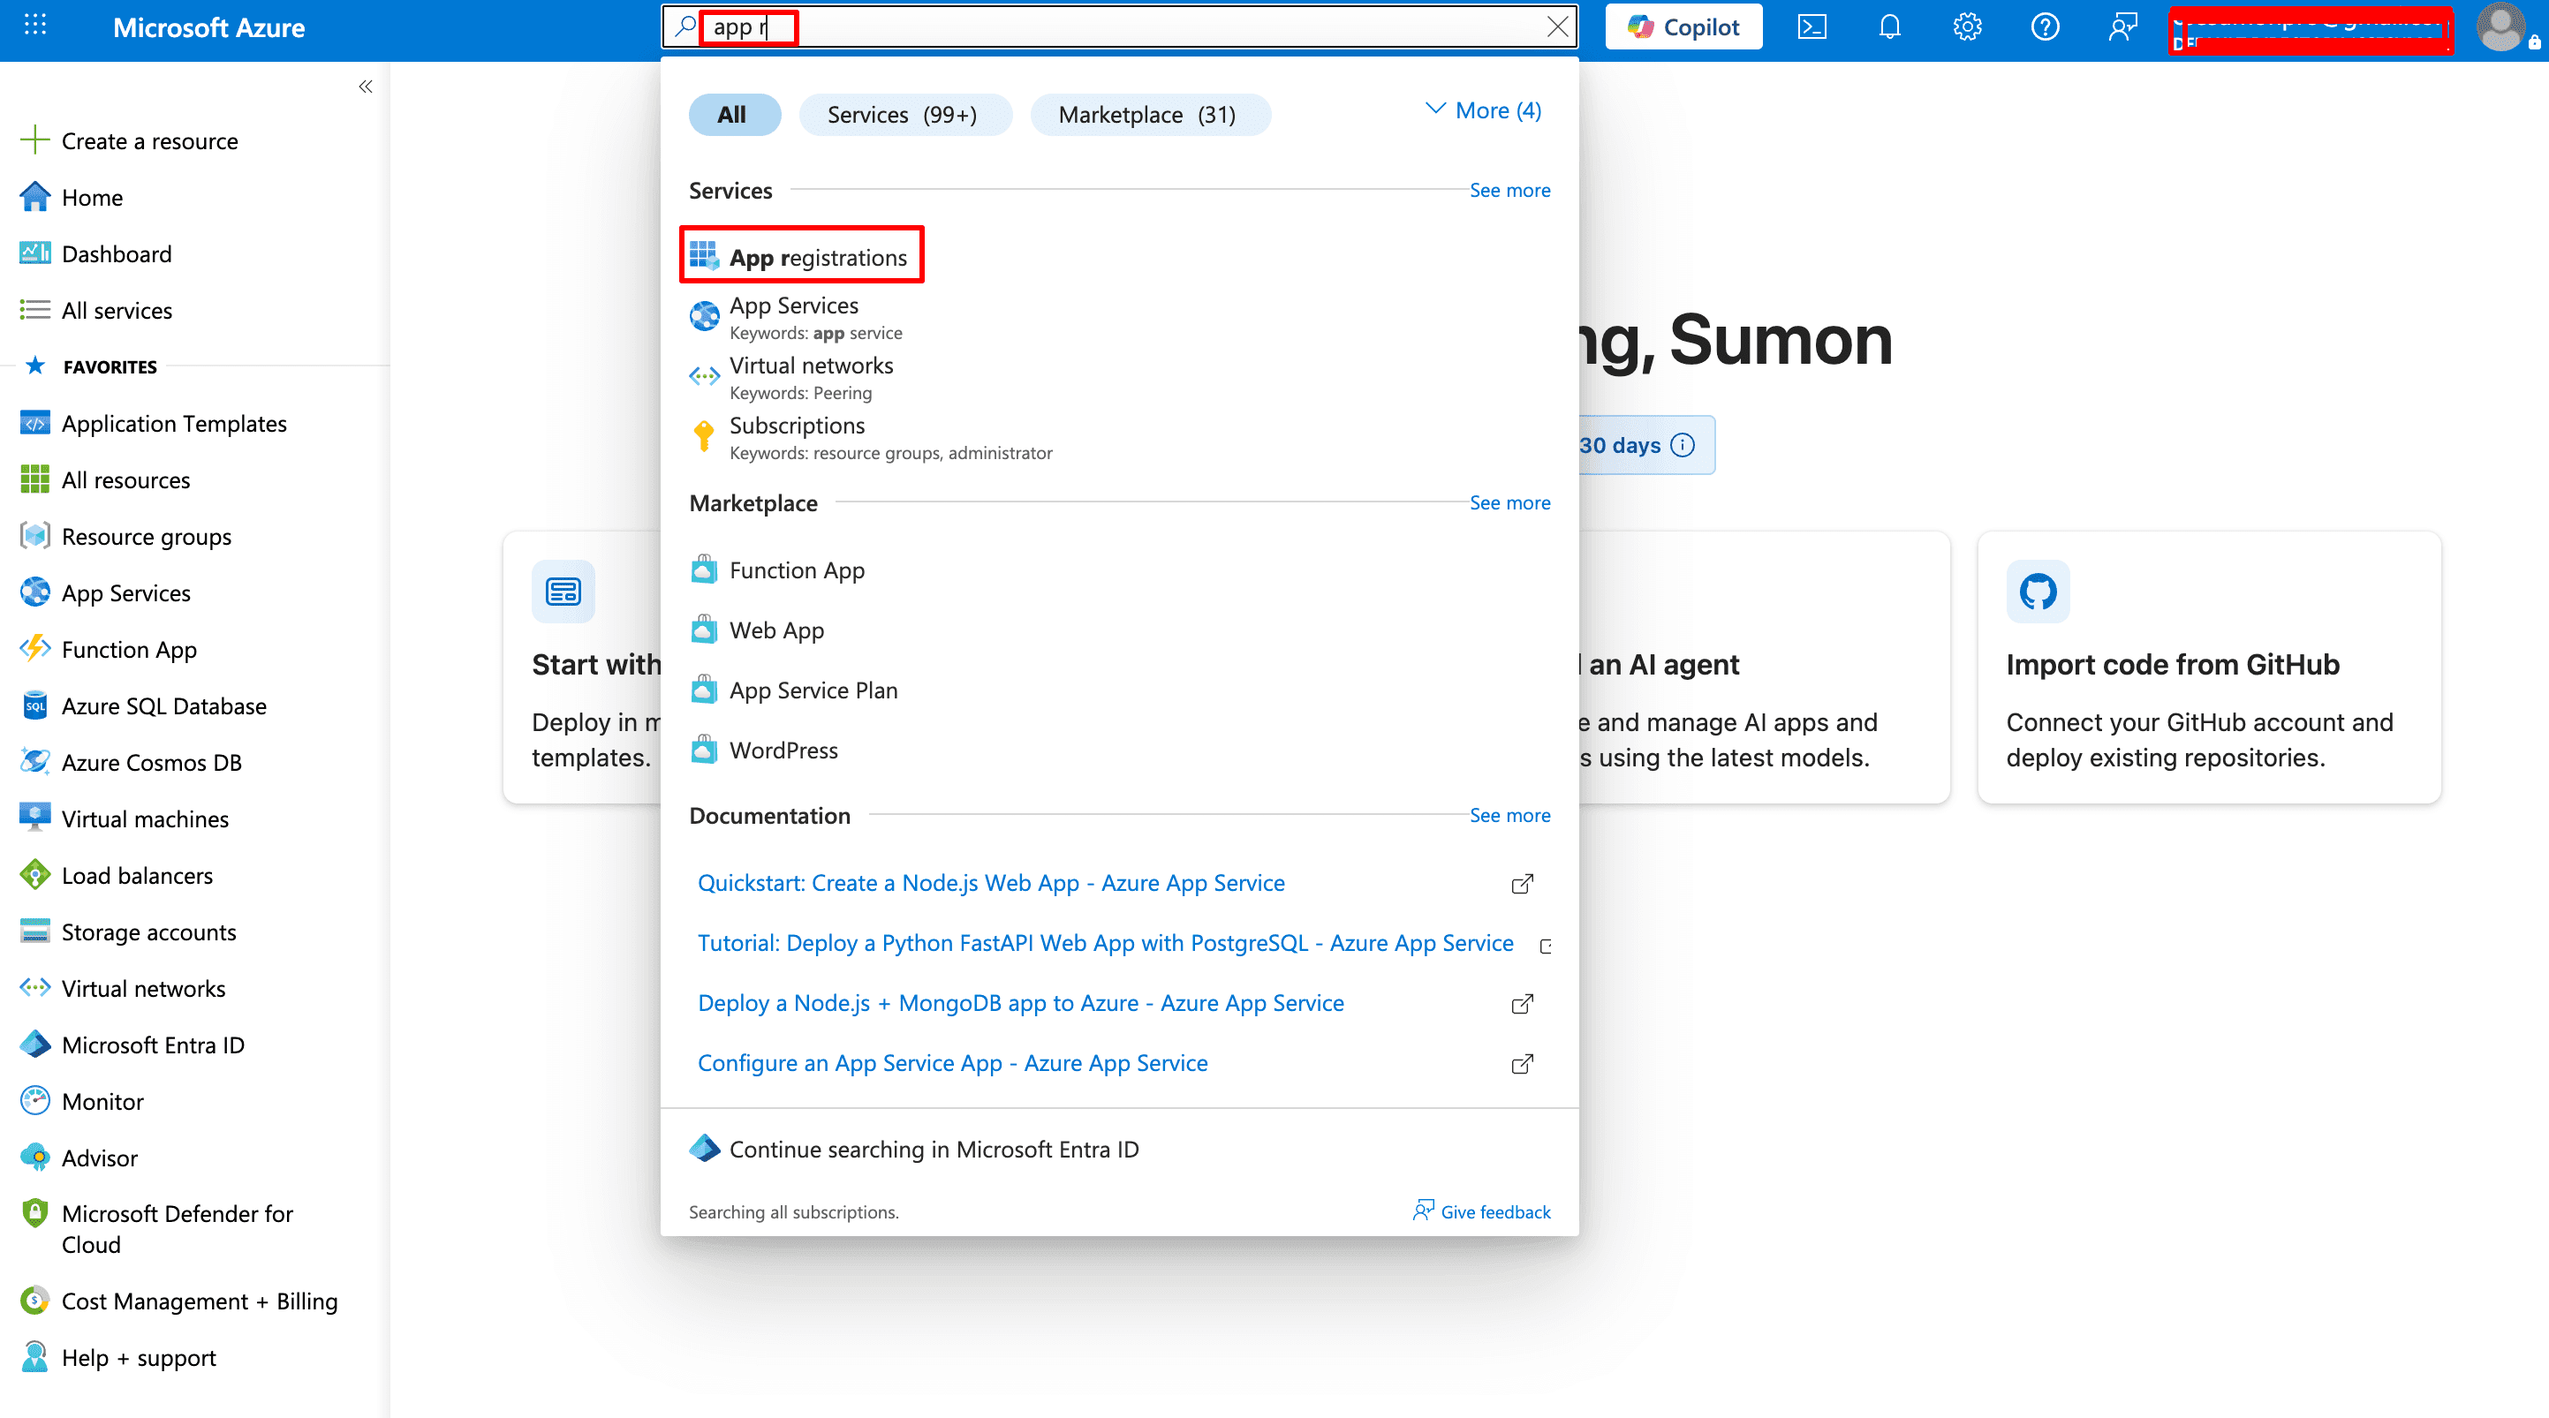
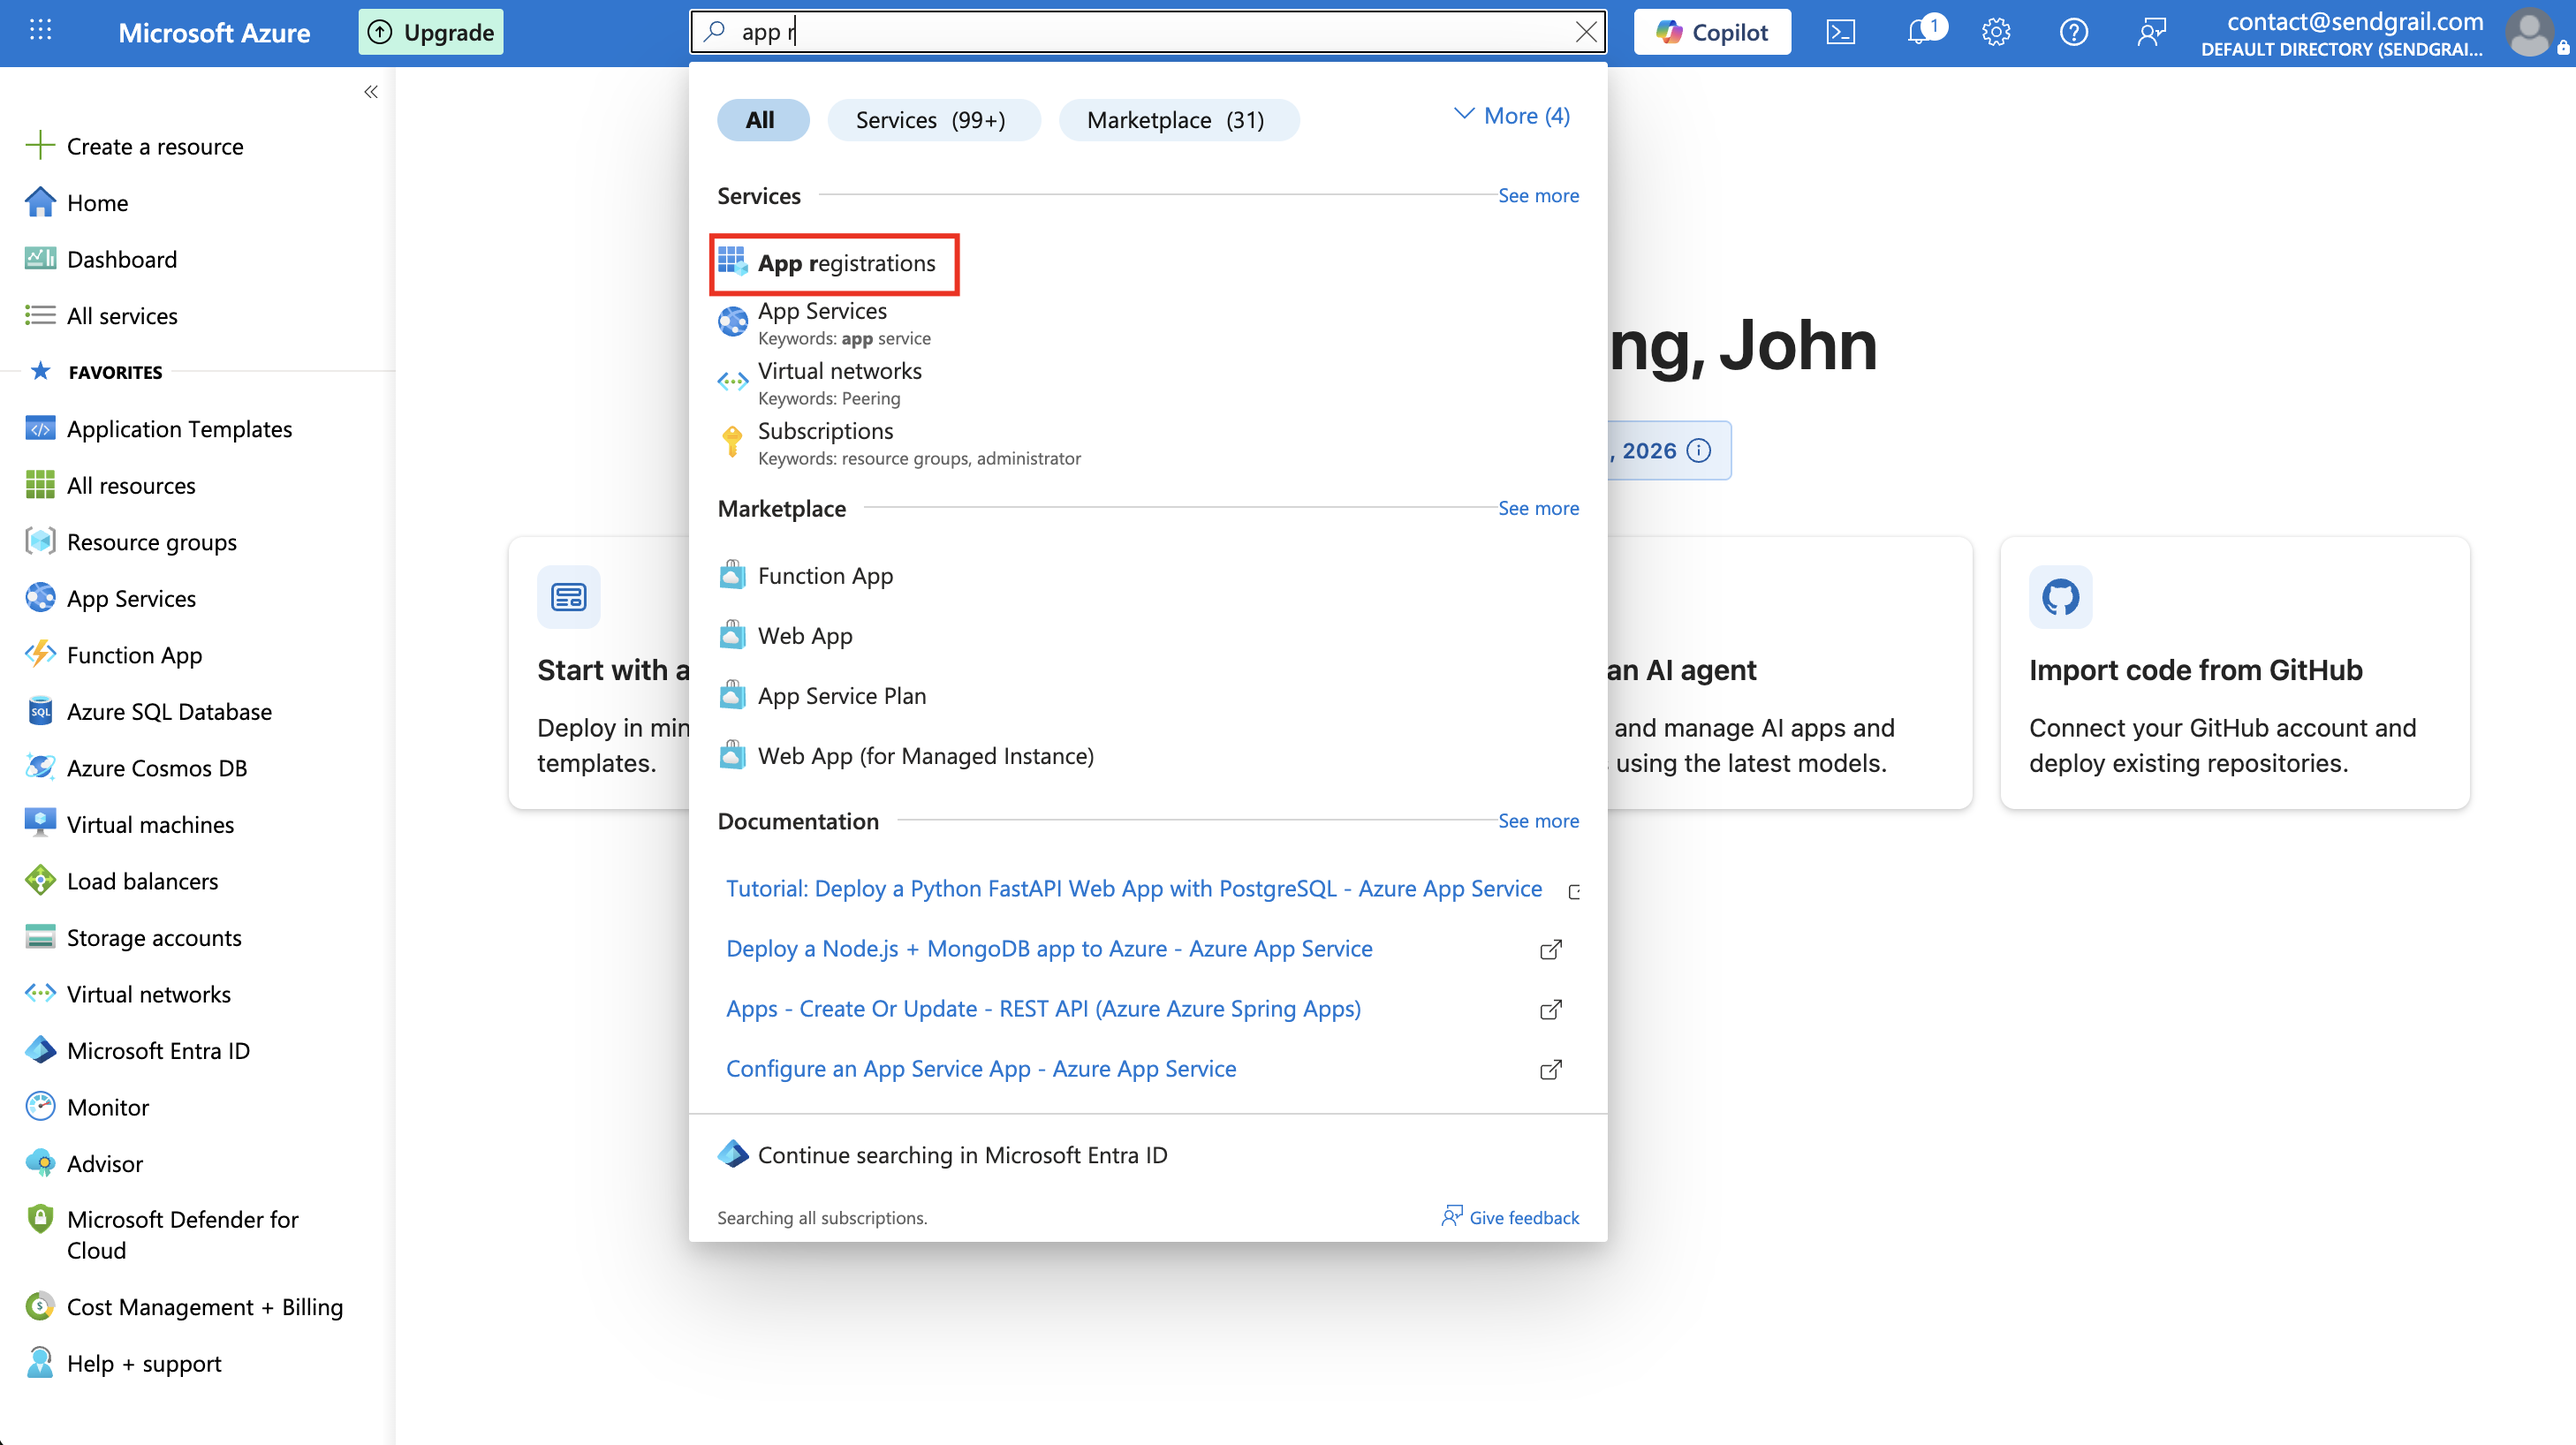
Rename 'Netcore Email' to 'Netcore' across docs

diff --git a/guide/connections/index.md b/guide/connections/index.md
@@ -31,7 +31,7 @@ API providers offer the highest deliverability and detailed engagement events. S
   <li><a href="/guide/connections/elastic-email"><div class="conn-index__logo"><img src="/provider-icons/elasticemail.png" alt="" /><strong>Elastic Email</strong></div><small>Affordable transactional + marketing platform.</small><span class="conn-index__pill">API · Easy</span></a></li>
   <li><a href="/guide/connections/smtp2go"><div class="conn-index__logo"><img src="/provider-icons/smtp2go.jpg" alt="" /><strong>SMTP2GO</strong></div><small>Reliable SMTP relay with global infrastructure.</small><span class="conn-index__pill">API · Easy</span></a></li>
   <li><a href="/guide/connections/mailjet"><div class="conn-index__logo"><img src="/provider-icons/mailjet.png" alt="" /><strong>Mailjet</strong></div><small>Sinch's email platform with API key/secret pair.</small><span class="conn-index__pill">API · Easy</span></a></li>
-  <li><a href="/guide/connections/netcore"><div class="conn-index__logo"><img src="/provider-icons/netcore.png" alt="" /><strong>Netcore Email</strong></div><small>Customer engagement platform with email API.</small><span class="conn-index__pill">API · Easy</span></a></li>
+  <li><a href="/guide/connections/netcore"><div class="conn-index__logo"><img src="/provider-icons/netcore.png" alt="" /><strong>Netcore</strong></div><small>Customer engagement platform with email API.</small><span class="conn-index__pill">API · Easy</span></a></li>
   <li><a href="/guide/connections/sendlayer"><div class="conn-index__logo"><img src="/provider-icons/sendlayer.png" alt="" /><strong>SendLayer</strong></div><small>WordPress-focused SMTP service from the makers of WPForms.</small><span class="conn-index__pill">API · Easy</span></a></li>
   <li><a href="/guide/connections/resend"><div class="conn-index__logo"><img src="/provider-icons/resend.png" alt="" /><strong>Resend</strong></div><small>Developer-focused transactional email API.</small><span class="conn-index__pill">API · Easy</span></a></li>
 </ul>

diff --git a/guide/providers.md b/guide/providers.md
@@ -151,7 +151,7 @@ Find your SMTP key in the Brevo dashboard under **Settings > SMTP & API > SMTP**
 
 ---
 
-### Netcore Email
+### Netcore
 
 | Setting     | Value                          |
 |-------------|--------------------------------|
@@ -161,7 +161,7 @@ Find your SMTP key in the Brevo dashboard under **Settings > SMTP & API > SMTP**
 | Username    | Your Netcore SMTP username     |
 | Password    | Your Netcore SMTP password     |
 
-Find your SMTP credentials in the Netcore Email dashboard under **Email API > SMTP settings**.
+Find your SMTP credentials in the Netcore dashboard under **Email API > SMTP settings**.
 
 ---
 
@@ -240,7 +240,7 @@ Use the Custom SMTP option to connect to any SMTP server not listed above. All f
 | Elastic Email          | `smtp.elasticemail.com`               | `2525` | TLS        |
 | SMTP2GO                | `mail.smtp2go.com`                    | `2525` | TLS        |
 | Brevo                  | `smtp-relay.brevo.com`                | `587`  | TLS        |
-| Netcore Email          | `smtp.netcorecloud.net`               | `587`  | TLS        |
+| Netcore          | `smtp.netcorecloud.net`               | `587`  | TLS        |
 | SparkPost              | `smtp.sparkpostmail.com`              | `587`  | TLS        |
 | SendLayer              | `smtp.sendlayer.net`                  | `587`  | TLS        |
 | Mailjet                | `in-v3.mailjet.com`                   | `587`  | TLS        |

diff --git a/guide/connections/netcore.md b/guide/connections/netcore.md
@@ -1,9 +1,9 @@
-# Netcore Email
+# Netcore
 
 <div class="conn-hero">
   <div class="conn-hero__icon"><img src="/provider-icons/netcore.png" alt="" /></div>
   <div class="conn-hero__body">
-    <h2 class="conn-hero__title" style="margin: 0;">Netcore Email</h2>
+    <h2 class="conn-hero__title" style="margin: 0;">Netcore</h2>
     <p class="conn-hero__sub">Customer engagement platform's email API. Strong analytics + AI-driven send-time optimization.</p>
     <div class="conn-hero__meta">
       <span class="conn-meta-pill conn-meta-pill--easy">Easy</span>
@@ -29,7 +29,7 @@
 
 ### Get SMTP credentials
 
-Netcore Email dashboard → **Email API → Settings → SMTP** (or API → API Keys).
+Netcore dashboard → **Email API → Settings → SMTP** (or API → API Keys).
 
 Copy your SMTP username + password.
 
@@ -39,7 +39,7 @@ Copy your SMTP username + password.
 
 ### Add the connection in SendGrail
 
-**SendGrail → Connections → Add Connection** → pick **Netcore Email**.
+**SendGrail → Connections → Add Connection** → pick **Netcore**.
 
 Fill in: Connection Name, From Email, From Name, Username + Password from step 2. Save.
 

diff --git a/index.md b/index.md
@@ -71,7 +71,7 @@ description: Documentation for SendGrail, the WordPress plugin that fixes email 
     <a href="/guide/connections/zoho" title="Zoho Mail"><img src="/provider-icons/zoho.png" alt="Zoho Mail" /></a>
     <a href="/guide/connections/sendlayer" title="SendLayer"><img src="/provider-icons/sendlayer.png" alt="SendLayer" /></a>
     <a href="/guide/connections/resend" title="Resend"><img src="/provider-icons/resend.png" alt="Resend" /></a>
-    <a href="/guide/connections/netcore" title="Netcore Email"><img src="/provider-icons/netcore.png" alt="Netcore Email" /></a>
+    <a href="/guide/connections/netcore" title="Netcore"><img src="/provider-icons/netcore.png" alt="Netcore" /></a>
     <a href="/guide/connections/custom-smtp" title="Other SMTP"><img src="/provider-icons/custom-smtp.svg" alt="Other SMTP" /></a>
   </div>
 </section>
